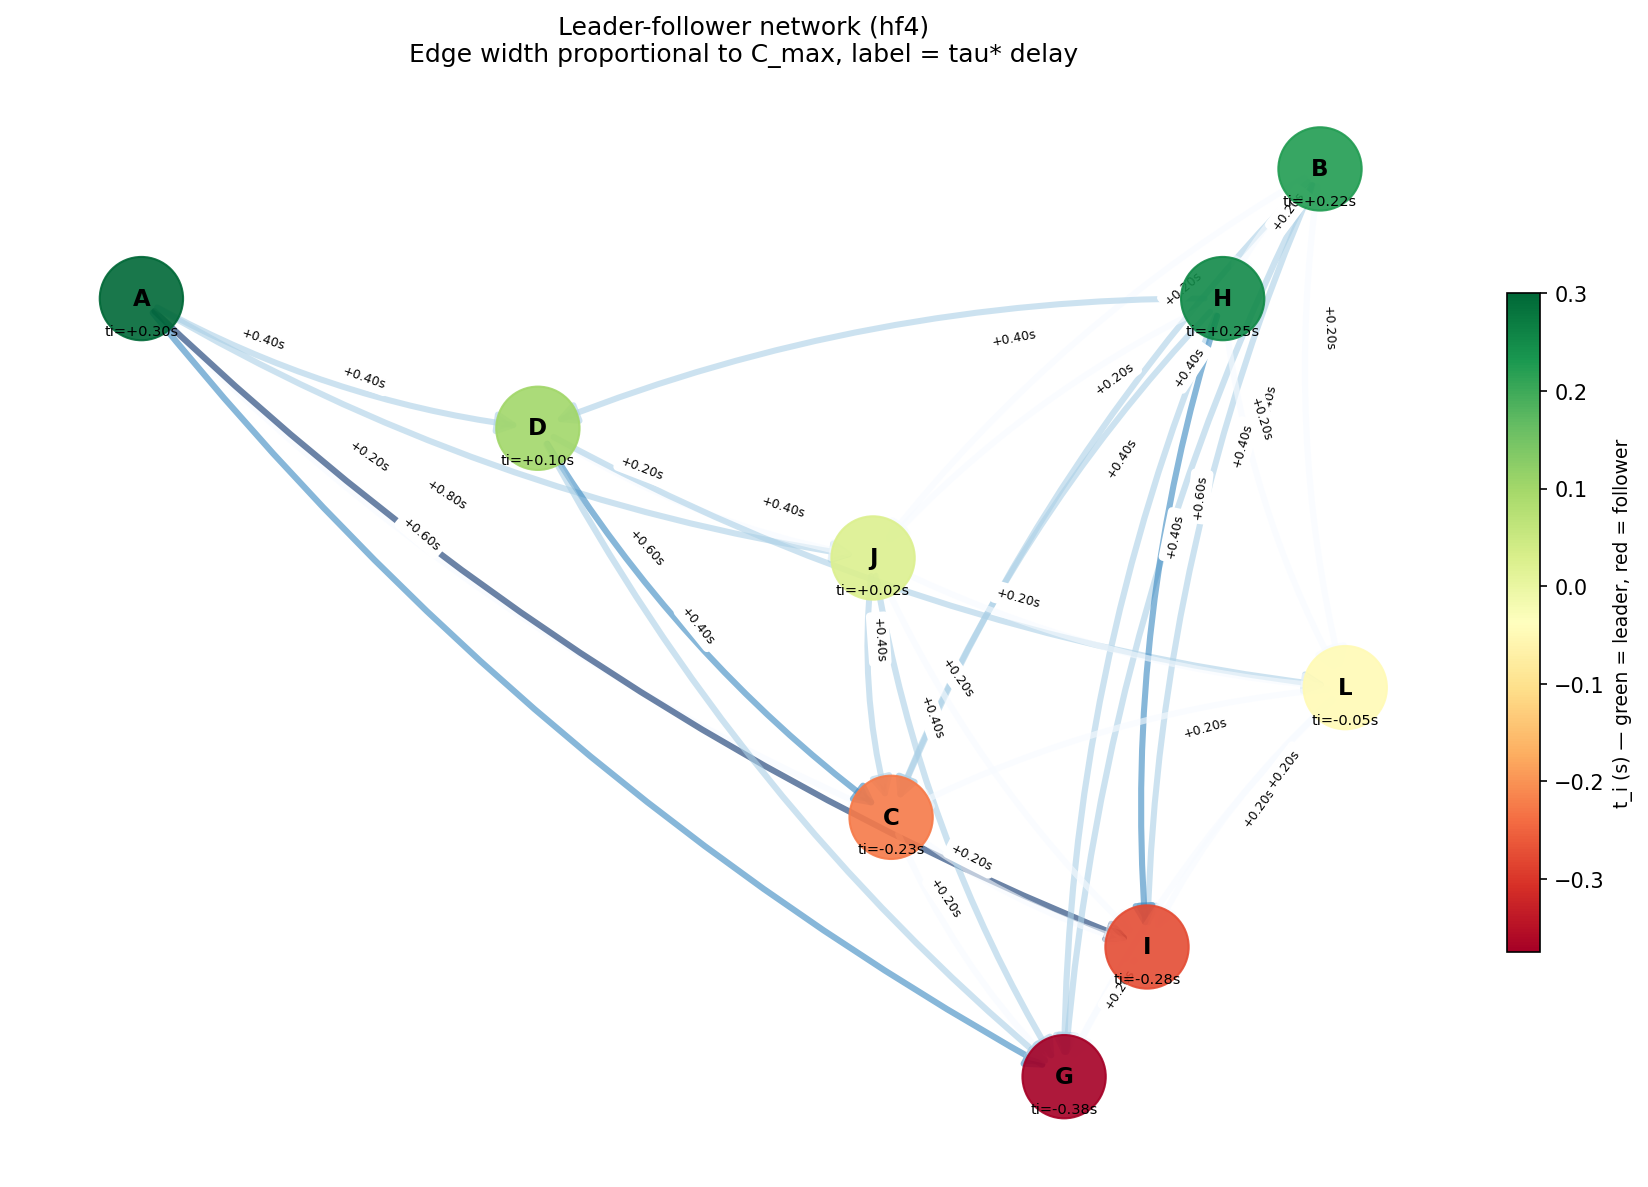
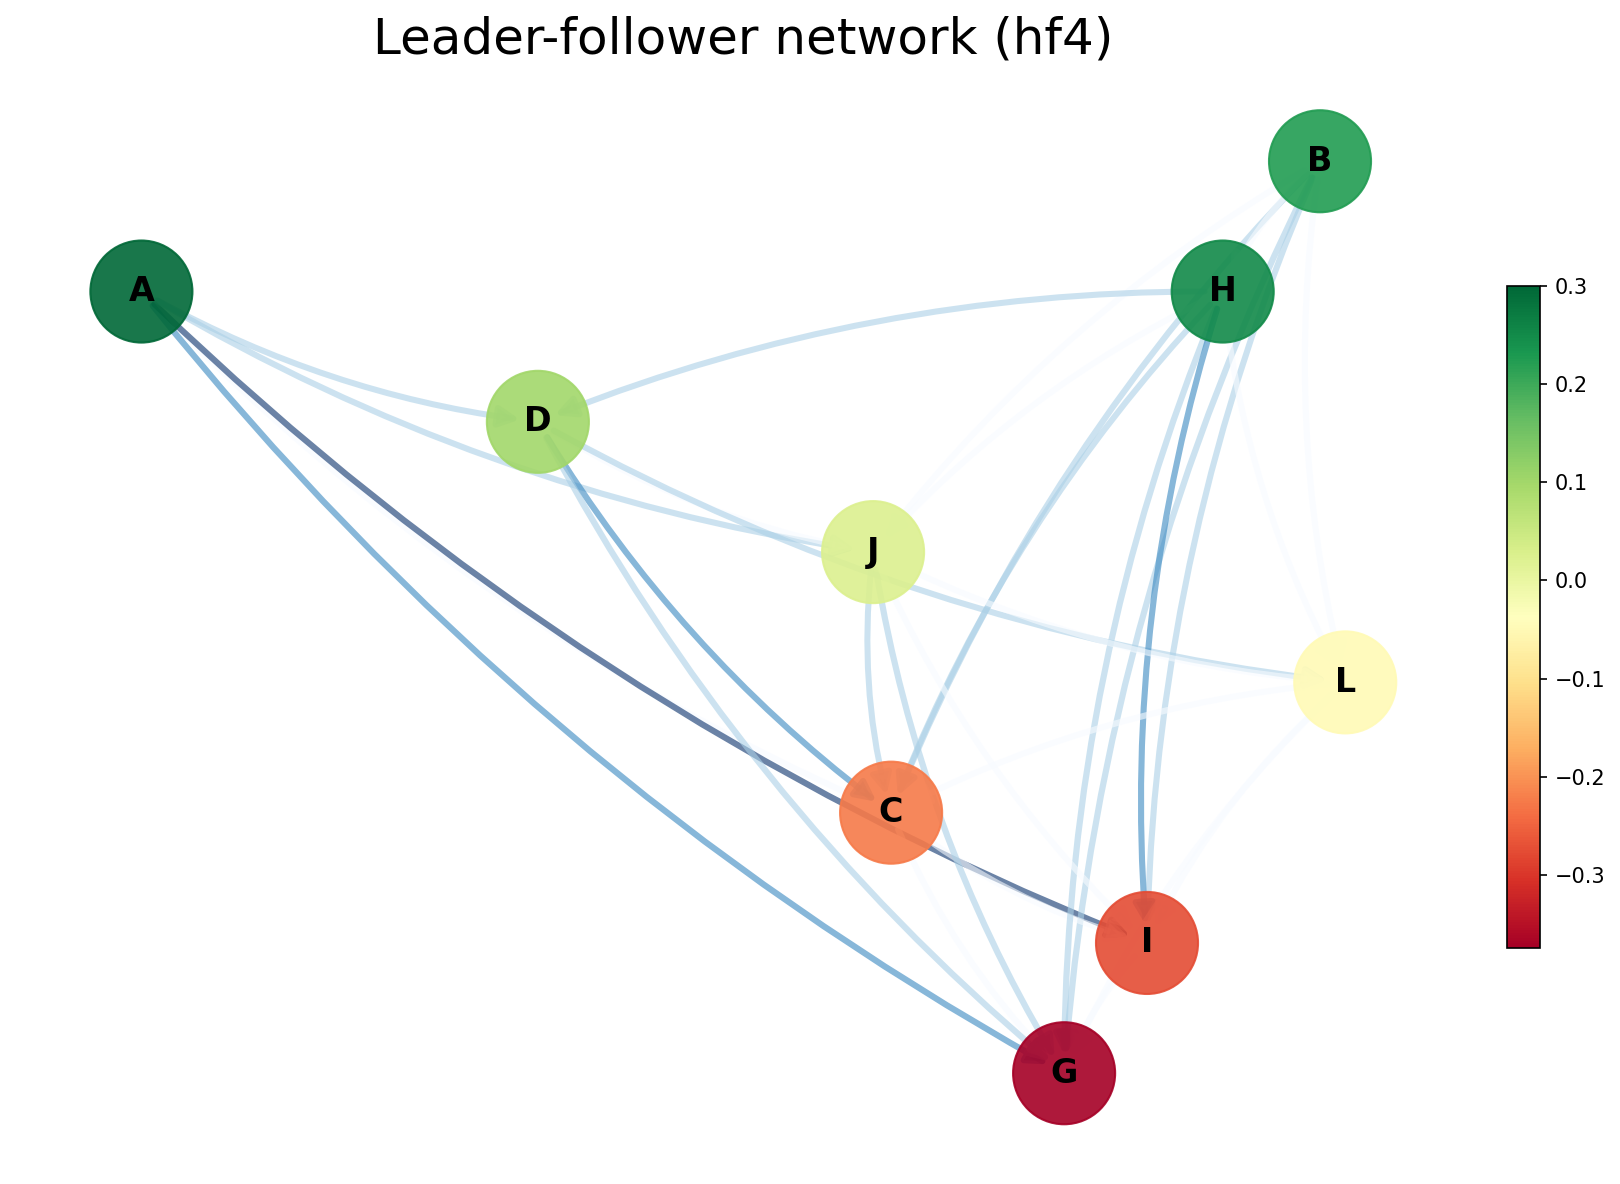
Final changes

diff --git a/main/visualization.py b/main/visualization.py
@@ -81,15 +81,13 @@ def plot_hierarchy_network(analysis: dict, flight_name: str = "hf4",
     nx.draw_networkx_nodes(
         G, pos, ax=ax,
         node_color=node_colors,
-        node_size=1600,
+        node_size=2400,
         alpha=0.9,
     )
 
-    nx.draw_networkx_labels(G, pos, ax=ax, font_size=11, font_weight="bold")
+    nx.draw_networkx_labels(G, pos, ax=ax, font_size=16, font_weight="bold")
 
-    ti_labels  = {bird: f"ti={analysis['ti'][bird]:+.2f}s" for bird in G.nodes()}
-    offset_pos = {bird: (x, y - 18) for bird, (x, y) in pos.items()}
-    nx.draw_networkx_labels(G, offset_pos, labels=ti_labels, ax=ax, font_size=7)
+    
 
     nx.draw_networkx_edges(
         G, pos, ax=ax,
@@ -102,21 +100,16 @@ def plot_hierarchy_network(analysis: dict, flight_name: str = "hf4",
         connectionstyle="arc3,rad=0.1",
     )
 
-    edge_tau_labels = {(u, v): f"{G[u][v]['tau']:+.2f}s" for u, v in G.edges()}
-    nx.draw_networkx_edge_labels(
-        G, pos, edge_labels=edge_tau_labels,
-        ax=ax, font_size=6, label_pos=0.3,
-    )
+    
 
     sm = plt.cm.ScalarMappable(cmap=cmap, norm=norm)
     sm.set_array([])
     cbar = plt.colorbar(sm, ax=ax, shrink=0.6, pad=0.02)
-    cbar.set_label("t_i (s) — green = leader, red = follower", fontsize=9)
+    
 
     ax.set_title(
-        f"Leader-follower network ({flight_name})\n"
-        f"Edge width proportional to C_max, label = tau* delay",
-        fontsize=12,
+        f"Leader-follower network ({flight_name})",
+        fontsize=24,
     )
     ax.axis("off")
     plt.tight_layout()

diff --git a/main/order_parameter.py b/main/order_parameter.py
@@ -187,9 +187,9 @@ def plot_mean_phi_vs_mean_cmax(
         ax.plot(x_line, m * x_line + b, "k--", linewidth=1, alpha=0.4)
         r, p = pearsonr(phi_vals[valid], cmax_vals[valid])
         ax.set_title(f"Mean order parameter vs mean C_max (all flights)\n"
-                     f"Pearson r={r:+.3f}, p={p:.3f}, n={valid.sum()} flights")
+                     f"Pearson r={r:+.3f}, p={p:.3f}, n={valid.sum()} flights", fontsize=18)
     else:
-        ax.set_title("Mean order parameter vs mean C_max")
+        ax.set_title("Mean order parameter vs mean C_max", fontsize=18)
 
     # Legend
     legend_handles = [
@@ -204,8 +204,8 @@ def plot_mean_phi_vs_mean_cmax(
     ]
     ax.legend(handles=legend_handles, fontsize=8, loc="upper left")
 
-    ax.set_xlabel("Mean φ (order parameter)")
-    ax.set_ylabel("Mean C_max (directional correlation)")
+    ax.set_xlabel("Mean φ (order parameter)", fontsize=18)
+    ax.set_ylabel("Mean C_max (directional correlation)", fontsize=18)
     ax.set_xlim(0, 1)
     ax.set_ylim(0, 1)
     plt.tight_layout()
